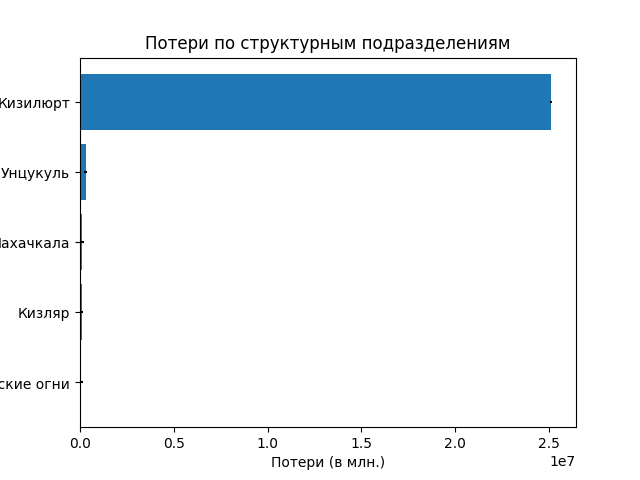
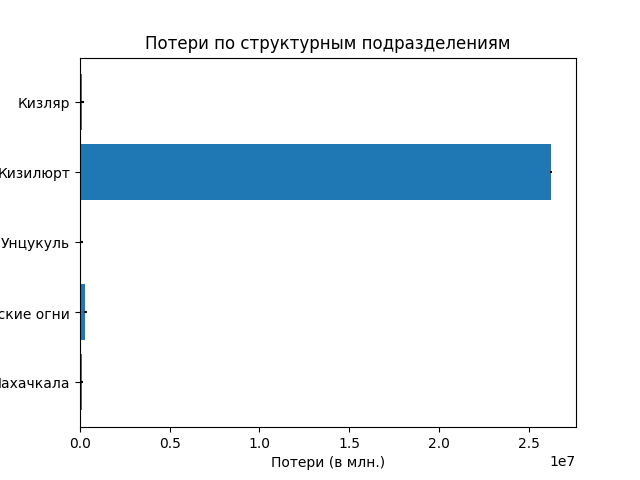
lol

diff --git a/logic/analytics/balance_m.py b/logic/analytics/balance_m.py
@@ -1,100 +1,99 @@
-from matplotlib import pyplot as plt
+from matplotlib import pyplot 
 import numpy as np
 
-from logic.balance.calculate import Balance
 from openpyxl import load_workbook
 from openpyxl.drawing.image import Image
-
 from openpyxl.worksheet.worksheet import Worksheet
 from openpyxl.styles import PatternFill, Alignment, Font
 
-class BalanceAnalytics:
+from logic.balance.calculate import Balance
+from logic.const import MAIN_DIR
+
+class BalanceAnalitic:
     
-    model = Balance()
+    titles_font = Font(size=28, bold=True)
+    alignment = Alignment(horizontal="center", vertical="center")
+    depataments = ["DS0101", "DS0301", "DS5301", "DS0701", "DS0801"]
     
-    titles_font = Font(
-        size=28,
-        bold=True,
-    )
     
-    alignment = Alignment(
-        horizontal="center",
-        vertical="center"
-    )
-    
-    def get_data(self, month: str | int):
-        data = self.model.serialize_balance(month)
-        return data
-    
-    def write_balance_pie(self, data: dict):
-        labels = list([value["name"] for key, value in data.items() if key != "DS"])
-        slices = list([abs(value["balance"]) for key, value in data.items() if key != "DS" if value["balance"] != 0])
+    def write_balance_pie(self, data: dict[str, dict]):
+        labels = [data[depatement]["name"] for depatement in self.depataments if data[depatement]["name"]]
+        slices = [abs(data[depatement]["balance"]) for depatement in self.depataments]
+        percent = [f'{round(i / abs(data["DS"]["balance"]) * 100, 1)}%' for i in slices if i != 0]
+        
         if not slices:
             slices += [1] * 5
         if not data["DS"]["balance"]:
             data["DS"]["balance"] = 5
-        percent = list([f'{round(i / abs(data["DS"]["balance"]) * 100, 1)}%' for i in slices if i != 0])
-        fig, ax = plt.subplots()
-        ax.pie(slices,labels=percent , wedgeprops={"edgecolor": "black", "linewidth": 1})
+            
+        fig, ax = pyplot.subplots()
+        ax.pie(slices, labels=percent, wedgeprops={"edgecolor": "black", "linewidth": 1})
         ax.legend(labels, loc=2)
-        plt.pie([1], colors="w", radius=0.6)
-        plt.title("Сальдо переток")
-        plt.savefig("./images/balance_pie.png")
+        pyplot.pie([1], colors="w", radius=0.6)
+        pyplot.title("Сальда переток")
+        pyplot.savefig("./images/balance.png")
+           
+    
+    def write_waste_pie(self, data: dict[str, dict]):
+        slices = [abs(data[depatement]["waste"]) for depatement in self.depataments]
+        percent = [f'{round(i / abs(data["DS"]["waste"]) * 100, 1)}%' for i in slices if i != 0]
         
-    def write_waste_pie(self, data):
-        slices = list([abs(value["waste"]) for key, value in data.items() if key != "DS" if value["waste"] != 0])
         if not slices:
             slices += [1] * 5
         if not data["DS"]["waste"]:
             data["DS"]["waste"] = 5
-        percent = list([f'{round(i / abs(data["DS"]["waste"]) * 100, 1)}%' for i in slices if i != 0])
-        fig, ax = plt.subplots()
+        
+        fig, ax = pyplot.subplots()
         ax.pie(slices, labels=percent, wedgeprops={"edgecolor": "black", "linewidth": 1})
-        plt.pie([1], colors="w", radius=0.6)
-        plt.title("Потери")
-        plt.savefig("./images/waste_pie.png")
+        pyplot.pie([1], colors="w", radius=0.6)
+        pyplot.title("Потери")
+        pyplot.savefig("./images/waste.png")
     
-    def write_consumption_pie(self, data):
-        slices = list([abs(value["consumption"]) for key, value in data.items() if key != "DS" if value["consumption"] != 0])
+    
+    
+    def write_consumption_pie(self, data: dict[str, dict]):
+        slices = [abs(data[depatement]["consumption"]) for depatement in self.depataments]
+        percent = [f'{round(i / abs(data["DS"]["consumption"]) * 100, 1)}%' for i in slices if i != 0]
+        
         if not slices:
             slices += [1] * 5
         if not data["DS"]["consumption"]:
             data["DS"]["consumption"] = 5
-        percent = list([f'{round(i / abs(data["DS"]["consumption"]) * 100, 1)}%' for i in slices if i != 0])
-        fig, ax = plt.subplots()
+        
+        fig, ax = pyplot.subplots()
         ax.pie(slices, labels=percent, wedgeprops={"edgecolor": "black", "linewidth": 1})
-        plt.pie([1], colors="w", radius=0.6)
-        plt.title("Полезный отпуск")
-        plt.savefig("./images/consumption_pie.png")
+        pyplot.pie([1], colors="w", radius=0.6)
+        pyplot.title("Полезный отпуск")
+        pyplot.savefig("./images/consumption.png")
     
-    def create_all_pie(self, sheet: Worksheet, data):
+    def create_all_pie(self, sheet: Worksheet = 0, data: dict[str, dict] = 1):
         self.write_waste_pie(data)
         self.write_balance_pie(data)
         self.write_consumption_pie(data)
         
-        balance_pie = Image("./images/balance_pie.png")
+        balance_pie = Image("./images/balance.png")
         balance_pie.anchor = 'A9'
         sheet.add_image(balance_pie)
         
-        consumption = Image("./images/consumption_pie.png")
+        consumption = Image("./images/consumption.png")
         consumption.anchor = 'K9'
         sheet.add_image(consumption)
         
-        waste_pie = Image("./images/waste_pie.png")
+        waste_pie = Image("./images/waste.png")
         waste_pie.anchor = 'U9'
         sheet.add_image(waste_pie)
-    
+        
     def write_bars(self, data: dict):
-        fig, ax = plt.subplots()
-        slices = sorted(list([abs(value["waste"]) for key, value in data.items() if key != "DS" if value["waste"] != 0]))
-        labels = list([value["name"] for value in reversed(sorted(data.values(), key=lambda x: x["waste"])) if value["foreign_key"] is not None])
+        fig, ax = pyplot.subplots()
+        slices = [abs(data[depatement]["waste"]) for depatement in self.depataments]
+        labels = [data[depatement]["name"] for depatement in self.depataments if data[depatement]["name"]]
 
         ax.barh(labels, slices, xerr=min(slices), align="center")
-        plt.title('Потери по структурным подразделениям')
-        plt.ylabel('Структурные подразделения')
-        plt.xlabel('Потери (в млн.)')
-        plt.savefig("./images/hbar.png")
-
+        pyplot.title('Потери по структурным подразделениям')
+        pyplot.ylabel('Структурные подразделения')
+        pyplot.xlabel('Потери (в млн.)')
+        pyplot.savefig("./images/hbar.png")
+    
     def write_departamnents_bars(self, data):
         names = []
         slices = {
@@ -125,7 +124,7 @@ class BalanceAnalytics:
         width = 0.25
         multiplier = 0
 
-        fig, ax = plt.subplots(layout='constrained', figsize=(3.5*7.3, 3.5 * 1.5))
+        fig, ax = pyplot.subplots(layout='constrained', figsize=(3.5*7.3, 3.5 * 1.5))
 
         for attribute, measurement in slices.items():
             offset = width * multiplier
@@ -139,11 +138,11 @@ class BalanceAnalytics:
         ax.set_xticks(x + width, names)
         ax.legend(loc='upper left', ncols=3)
         ax.set_ylim(0, 100)
-        plt.rcParams["figure.figsize"] = 10, 20
-        # plt.savefig("./images/all_bars.png")
-
+        pyplot.rcParams["figure.figsize"] = 10, 20
+        pyplot.savefig("./images/all_bars.png")
+        
     def create_analytics(self, month):
-        data = self.model.serialize_balance(month)
+        data = Balance().serialize_balance(month)
         book = load_workbook(r"C:\Users\user\Desktop\Тест.xlsx")
         sheet = book.worksheets[0]
         
@@ -183,6 +182,9 @@ class BalanceAnalytics:
         hbar = Image("./images/hbar.png")
         hbar.anchor = 'AE9'
         sheet.add_image(hbar)
-    
         
-        book.save("../test/Аналитика баланса электроэнергии/Аналитика Сводного баланса.xlsx")
+        departament_bar = Image("./images/all_bars.png")
+        departament_bar.anchor = "A33"
+        sheet.add_image(departament_bar)
+        
+        book.save(f"{MAIN_DIR}/Аналитика баланса электроэнергии/Аналитика сводного баланса.xlsx")

diff --git a/logic/bicu/__init__.py b/logic/bicu/__init__.py
@@ -6,7 +6,7 @@ from logic.const import MONTH_LIST
 def start_bicu():
     menu = [
         "",
-        "----------------Потребители-------------------",
+        "---------------------БИКУ----------------------",
         "Выберите действие, которое хотите совершить: ",
         "1. Сверить статические данные",
         "2. Сформировать сводную ведомость",

diff --git a/__main__.py b/__main__.py
@@ -3,11 +3,11 @@ from logic.consumers import start_consumer
 from logic.bicu import start_bicu
 from logic.balance import start_balance
 from logic.analytics import start_analytics
-from logic.balance.calculate import Balance
+from logic.analytics.balance_m import BalanceAnalitic
 
 
-test = Balance()
-test.create_balance(6)
+test = BalanceAnalitic()
+test.create_analytics(6)
 
 
 def main():

diff --git a/logic/const.py b/logic/const.py
@@ -1,4 +1,4 @@
-MAIN_DIR = "../test"
+MAIN_DIR = "../Dagenergy"
 
 MONTH_LIST = [
     "Январь", "Февраль", "Март",
